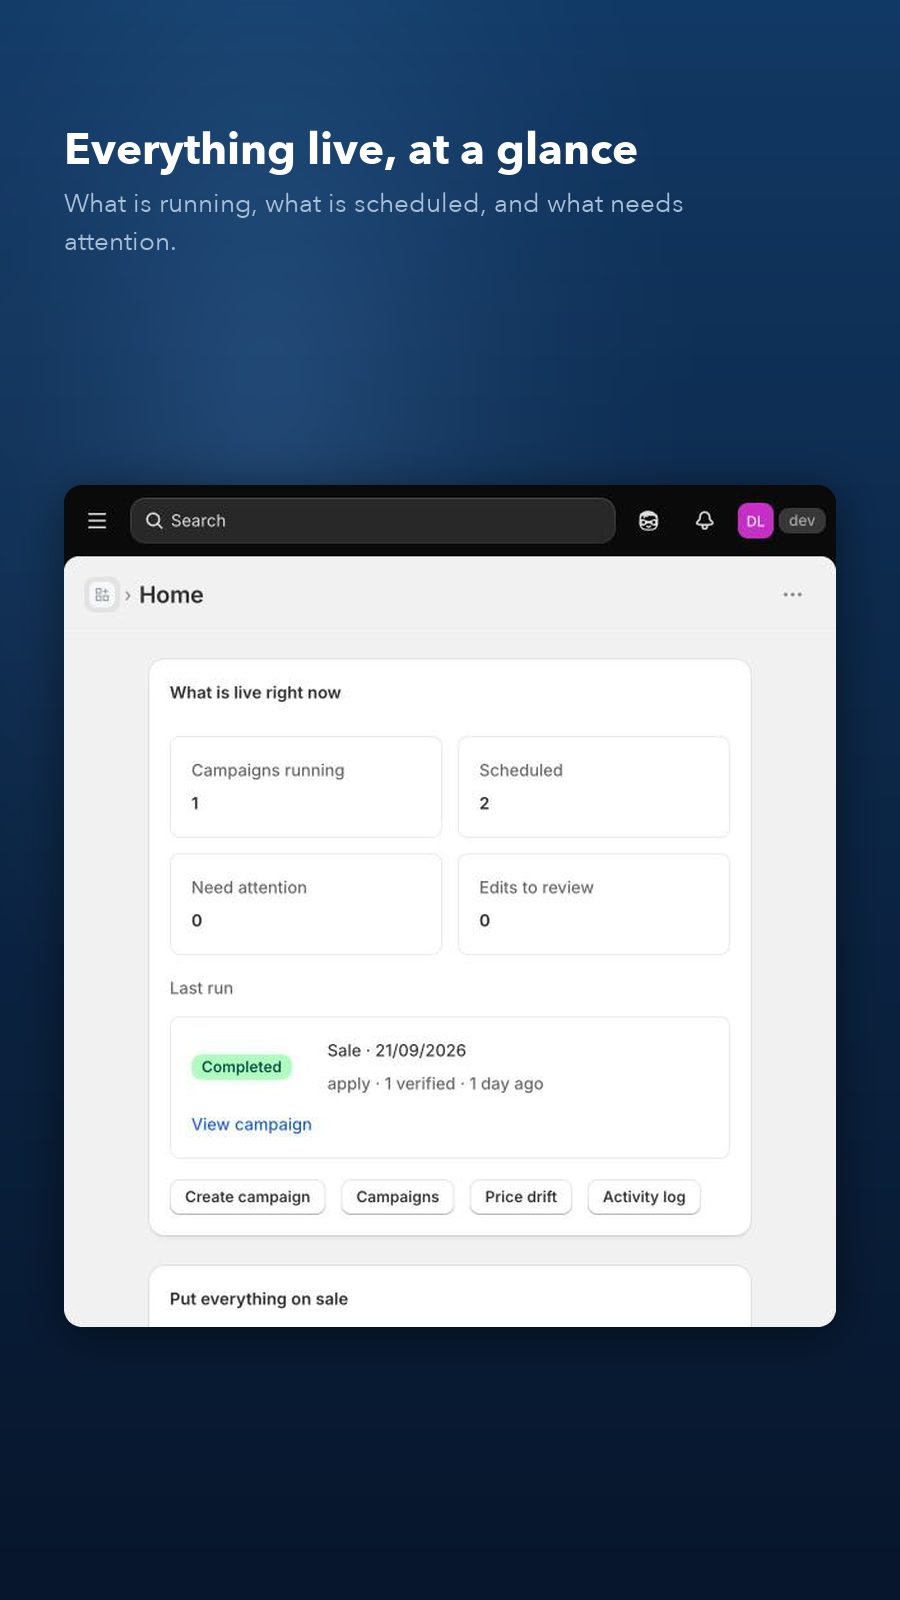
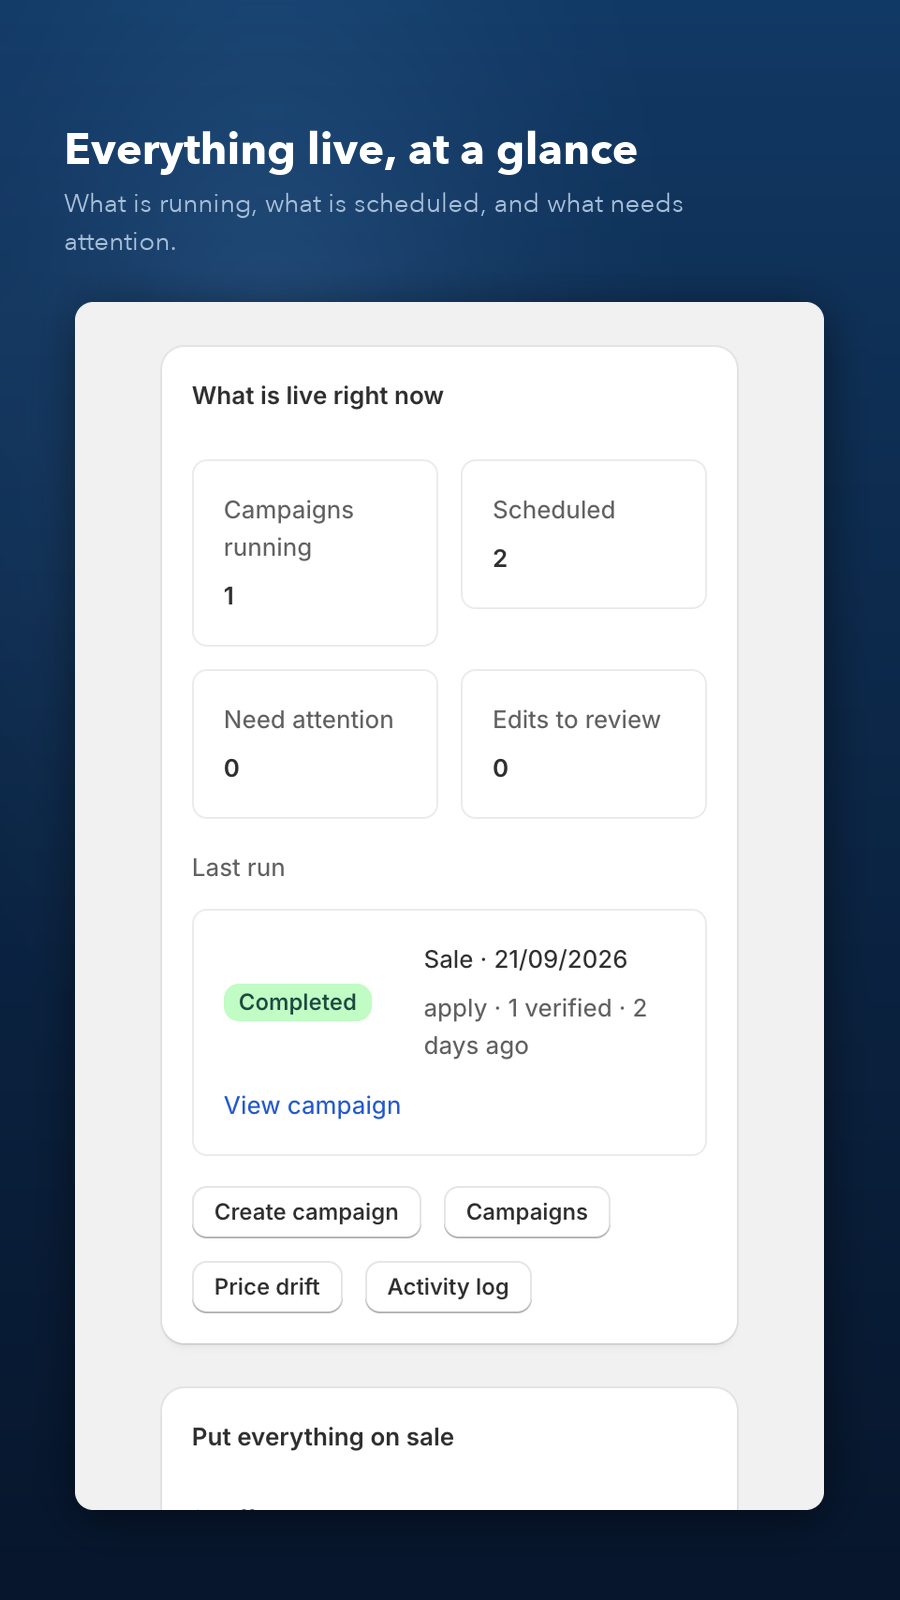
Screenshots of the app, not of the Shopify admin around it
Every capture carried the admin's left nav and top bar, which is 240px of
navigation that is not ours and that a reviewer has already seen on every other
listing. The crop is keyed on the capture's own dimensions so a shot taken at a
different window size is left alone rather than silently mis-cropped.

The phone captures are retaken against the live app at 400px wide, by sizing the
app iframe rather than the browser window: the window would not resize while
maximised, and scaling a desktop shot down is not the same picture. What came
back is better than what it replaced, because the What's live table overflowed
its viewport in the old shot and the price column was cut mid-digit.

Mobile screenshots go on the 1600x900 canvas too. Shopify validates that size
for every screenshot slot, mobile included, which is why the 900x1600 files sat
unused.

Alt text says what the image shows and not which device it is on. The same
screenshot is a phone screenshot and a narrow-window screenshot, and 64
characters is too few to spend on the distinction.

diff --git a/docs/listing/copy.md b/docs/listing/copy.md
@@ -148,17 +148,35 @@ Two campaigns on one calendar, how many products they share, and which one wins.
 
 ### The files
 
-| Order | Desktop 1600x900 | Mobile 900x1600 | What it shows |
-|---|---|---|---|
-| 1 | `desktop-01-hero.png` | `mobile-01-hero.png` | The baseline argument, with one product's numbers |
-| 2 | `desktop-02-capabilities.png` | `mobile-02-capabilities.png` | Six things the category does not do |
-| 3 | `desktop-03-whats-live.png` | `mobile-m05-whats-live.png` | Live price, baseline, controlling campaign, per surface |
-| 4 | `desktop-04-preview.png` | `mobile-m03-home.png` | The live preview recomputing as the rule is built |
-| 5 | `desktop-05-calendar.png` | `mobile-m04-campaigns.png` | Overlapping campaigns and the products they share |
-| 6 | `desktop-06-ledger.png` | | Spare. The ledger after a run, with per-variant rollback |
+Shopify wants 1600x900 for every screenshot, mobile ones included, so the phone captures go
+on the same landscape canvas as the desktop ones rather than a portrait one. The 900x1600
+`mobile-*.png` files are kept because the same panels are useful at that ratio elsewhere,
+but they are not what the listing carries.
 
-Images 1 and 2 are built by `scripts/../docs/listing/compose` equivalents kept in the
-scratch work; the screens in 3 to 6 are unretouched captures placed on the same canvas.
+Every capture is cropped to the app's own screen. The admin's left nav and top bar are not
+the app and reviewers see them on every listing, so they are gone; the app's title bar, which
+is the one piece of chrome the app controls, stays. The phone captures are taken at 400px
+wide against the live app, not scaled down from a desktop shot.
+
+| Slot | File | Alt text |
+|---|---|---|
+| Feature media | `desktop-01-hero.png` | Anchor computes every price from a baseline you control |
+| Desktop 1 | `desktop-02-capabilities.png` | Six ways Anchor differs from a bulk price editor |
+| Desktop 2 | `desktop-03-whats-live.png` | Live price, baseline and the campaign that set it |
+| Desktop 3 | `desktop-04-preview.png` | Campaign preview showing each baseline and the price it becomes |
+| Desktop 4 | `desktop-05-calendar.png` | Campaign calendar showing two overlapping sales |
+| Desktop 5 | `desktop-06-ledger.png` | Run ledger with before, intended and verified per variant |
+| Mobile 1 | `mobileview-01-home.png` | Campaigns running, scheduled and needing attention |
+| Mobile 2 | `mobileview-02-campaigns.png` | Campaign list showing each rule, scope, priority and last run |
+| Mobile 3 | `mobileview-03-whats-live.png` | Every written price checked back against Shopify |
+
+Alt text is capped at 64 characters, which is shorter than the caption limit and short enough
+that a sentence has to become a label. Say what the image shows, not what device it is on:
+the same screenshot is a phone screenshot and a narrow-window screenshot, and the reader with
+a screen reader does not care which.
+
+Images 1 and 2 are designed panels built by the compose script kept in the scratch work; the
+rest are unretouched captures placed on the same canvas.
 
 ### Not yet capturable
 
